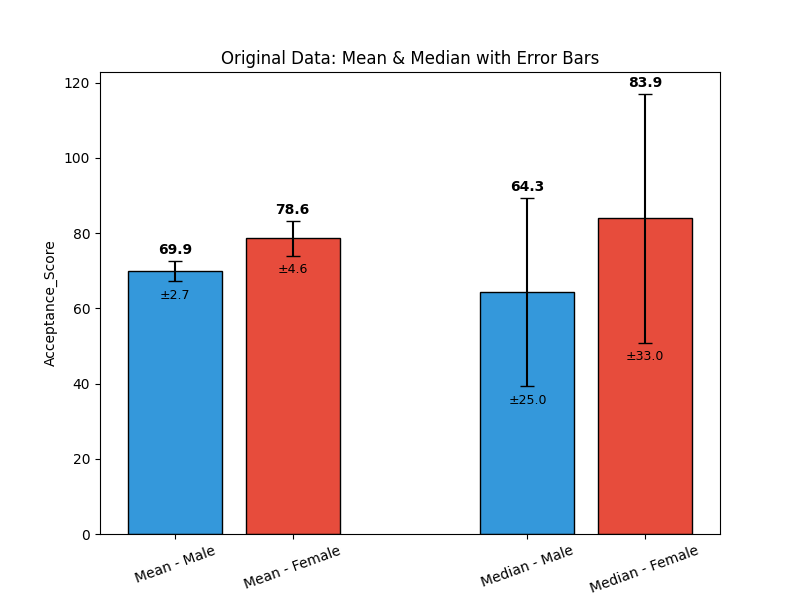
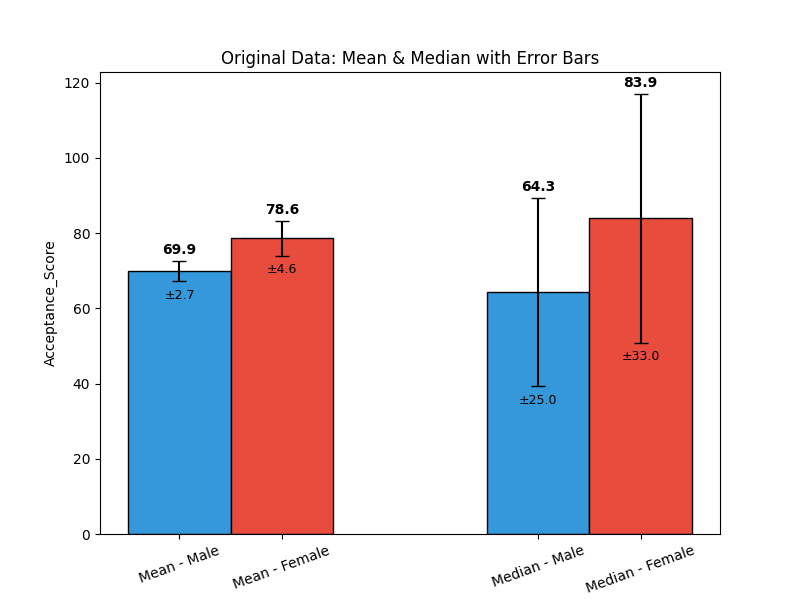
fix :  plot spacing between bars for gender effect analysis

diff --git a/gender_effect_analysis.py b/gender_effect_analysis.py
@@ -196,7 +196,7 @@ def plot_mean_median_with_error_bars(df, categorical_var, target_variable, datas
     ]
 
     # Bar positions
-    x_pos = [0, 1, 3, 4]  # Ensures spacing between Mean & Median sections
+    x_pos = [0, 0.8, 2.8, 3.6]  # Ensures spacing between Mean & Median sections
 
     # Define bar colors
     colors = ["#3498db", "#e74c3c", "#3498db", "#e74c3c"]  # Blue for Male, Red for Female
